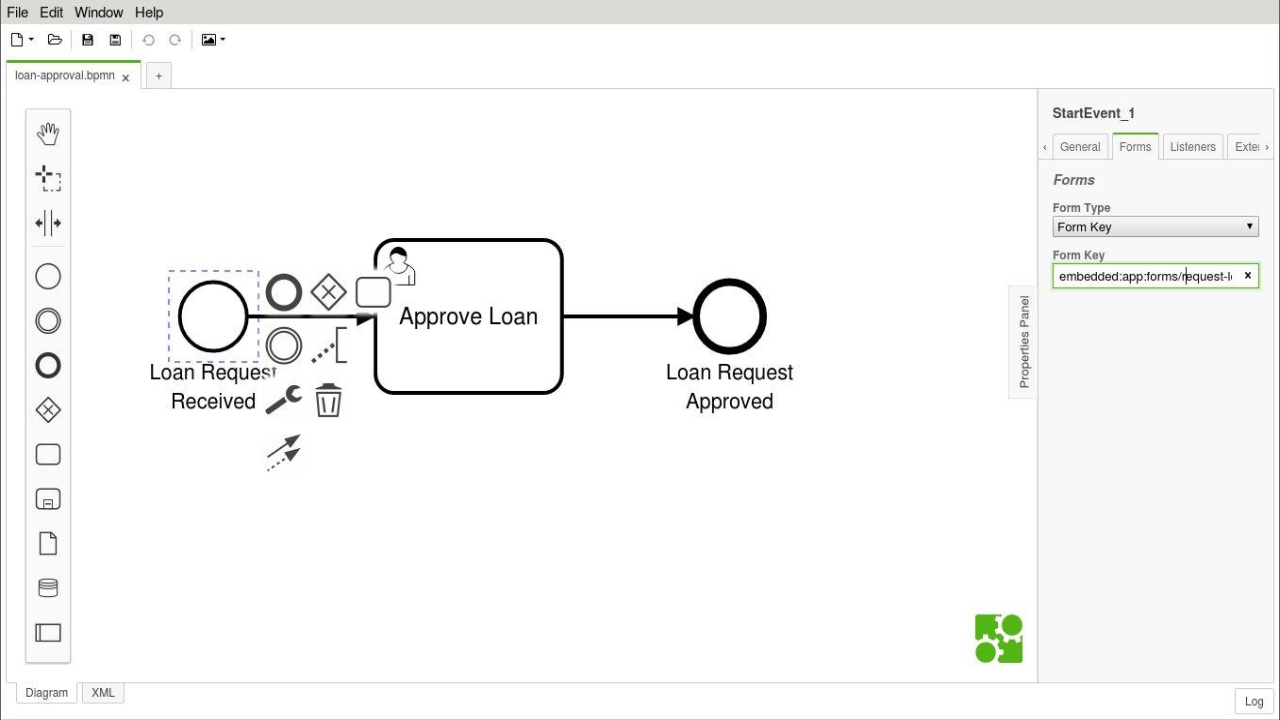
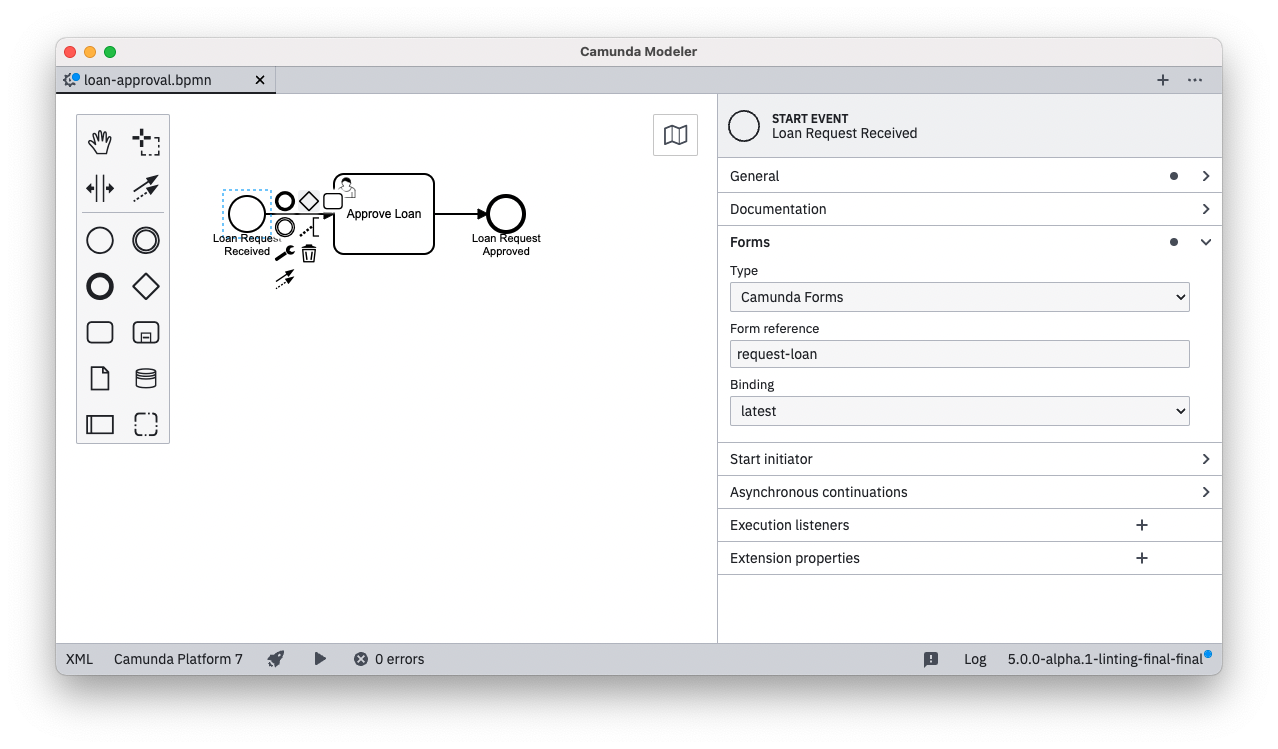
Replace embedded forms.

diff --git a/get-started/content/java-process-app/forms.md b/get-started/content/java-process-app/forms.md
@@ -1,74 +1,73 @@
 ---
 
-title: 'Adding HTML Start and Task Forms to a BPMN 2.0 Process'
+title: 'Adding Start and Task Forms to a BPMN 2.0 Process'
 weight: 50
 
 menu:
   main:
-    name: "HTML Forms"
+    name: "Forms"
     parent: "get-started-pa"
     identifier: "get-started-pa-forms"
-    pre: "Add simple HTML based Forms to the Process."
+    pre: "Add simple Forms to the Process."
 
 ---
 
-In the next step, we want to add an HTML based task form to the application.
+In the next step, we want to add a task form to the application.
 
 
 # Add a Start Form
 
-Go back to Eclipse and add a folder named `src/main/webapp/forms`. Inside this folder, add a file named `request-loan.html`. Add the following content:
+Create a new form in Camunda Modeler and set its id to `request-loan`. 
 
-```html
-<form name="requestLoan">
-  <div class="form-group">
-    <label for="customerId">Customer ID</label>
-    <input class="form-control"
-           cam-variable-type="String"
-           cam-variable-name="customerId"
-           name="customerId" />
-  </div>
-  <div class="form-group">
-    <label for="amount">Amount</label>
-    <input class="form-control"
-           cam-variable-type="Double"
-           cam-variable-name="amount"
-           name="amount" />
-  </div>
-</form>
-```
+Add a **Text Field**, set the **Field Label** to `Customer ID` and the **Key** to `customerId`.
 
-Open the process with the modeler. Click on the start event. In the properties view, click on the `Forms` tab and insert `embedded:app:forms/request-loan.html` into the `Form Key` property field. This means that we want to use an `embedded` form inside the Tasklist and that the form is loaded from the application. Save the diagram and refresh the Eclipse project.
+Add a **Number Field**, set the **Field Label** to `Amount` and the **Key** to `amount`.
+
+Save the form with the file name `request-loan.form` to `src/main/resources`.
+
+{{< img src="../img/form-builder-start-form.png" >}}
+
+Open the process with the modeler. Click on the start event. In the properties panel, click on `Forms` select `Camunda Forms` as type, insert `request-loan` into the `Form reference` field, and choose `latest` as binding. This means Tasklist uses the latest deployed version of the form. Save the diagram and refresh the Eclipse project.
 
 {{< img src="../img/modeler-start-form.png" >}}
 
 
 # Add a Task Form
 
-The task form can be added and configured the same way. Add a file named `approve-loan.html` to the `src/main/webapp/forms` directory and add the following content:
+You can add and configure the task form in a similar way with the difference, 
+that you set its id to `approve-loan` and select the **Disabled** checkbox in both fields.
 
-```html
-<form name="approveLoan">
-  <div class="form-group">
-    <label for="customerId">Customer ID</label>
-    <input class="form-control"
-           cam-variable-type="String"
-           cam-variable-name="customerId"
-           name="customerId"
-           readonly="true" />
-  </div>
-  <div class="form-group">
-    <label for="amount">Amount</label>
-    <input class="form-control"
-           cam-variable-type="Double"
-           cam-variable-name="amount"
-           name ="amount" />
-  </div>
-</form>
+Save the form with the file name `approve-loan.form` to `src/main/resources`.
+
+After that, open the process with the modeler. Click on the user task. In the properties panel, click on `Forms` select `Camunda Forms` as type, insert `approve-loan` into the `Form reference` field, and choose `latest` as binding.
+
+# Adjust the deployment descriptor file
+
+Adjust the `META-INF/processes.xml` deployment descriptor file by adding the form resources:
+
+```xml
+
+<?xml version="1.0" encoding="UTF-8" ?>
+
+<process-application
+        xmlns="http://www.camunda.org/schema/1.0/ProcessApplication"
+        xmlns:xsi="http://www.w3.org/2001/XMLSchema-instance">
+
+  <process-archive name="loan-approval">
+    <process-engine>default</process-engine>
+    
+    <resource>loan-approval.bpmn</resource>
+    <resource>request-loan.form</resource>
+    <resource>approve-loan.form</resource>
+    
+    <properties>
+      <property name="isDeleteUponUndeploy">false</property>
+      <property name="isScanForProcessDefinitions">true</property>
+    </properties>
+  </process-archive>
+
+</process-application>
 ```
-
-After that, open the process with the modeler again. Click on the user task. In the properties view, click on the `Forms` tab and insert `embedded:app:forms/approve-loan.html` into the `Form Key` property field.
-
 
 # Re-Build and Deploy
 

diff --git a/get-started/content/java-process-app/model.md b/get-started/content/java-process-app/model.md
@@ -73,4 +73,30 @@ When you are done, save your changes by clicking *File > Save File As..*. In the
 
 Return to Eclipse. Right-click the project folder and click *Refresh*. This synchronizes the new BPMN file with Eclipse.
 
+# Adjust the deployment descriptor file
+
+Adjust the `META-INF/processes.xml` deployment descriptor file by adding the BPMN process resource:
+
+```xml
+
+<?xml version="1.0" encoding="UTF-8" ?>
+
+<process-application
+        xmlns="http://www.camunda.org/schema/1.0/ProcessApplication"
+        xmlns:xsi="http://www.w3.org/2001/XMLSchema-instance">
+
+  <process-archive name="loan-approval">
+    <process-engine>default</process-engine>
+    
+    <resource>loan-approval.bpmn</resource>
+    
+    <properties>
+      <property name="isDeleteUponUndeploy">false</property>
+      <property name="isScanForProcessDefinitions">true</property>
+    </properties>
+  </process-archive>
+
+</process-application>
+```
+
 {{< get-tag repo="camunda-get-started-java" tag="Step-3" >}}
